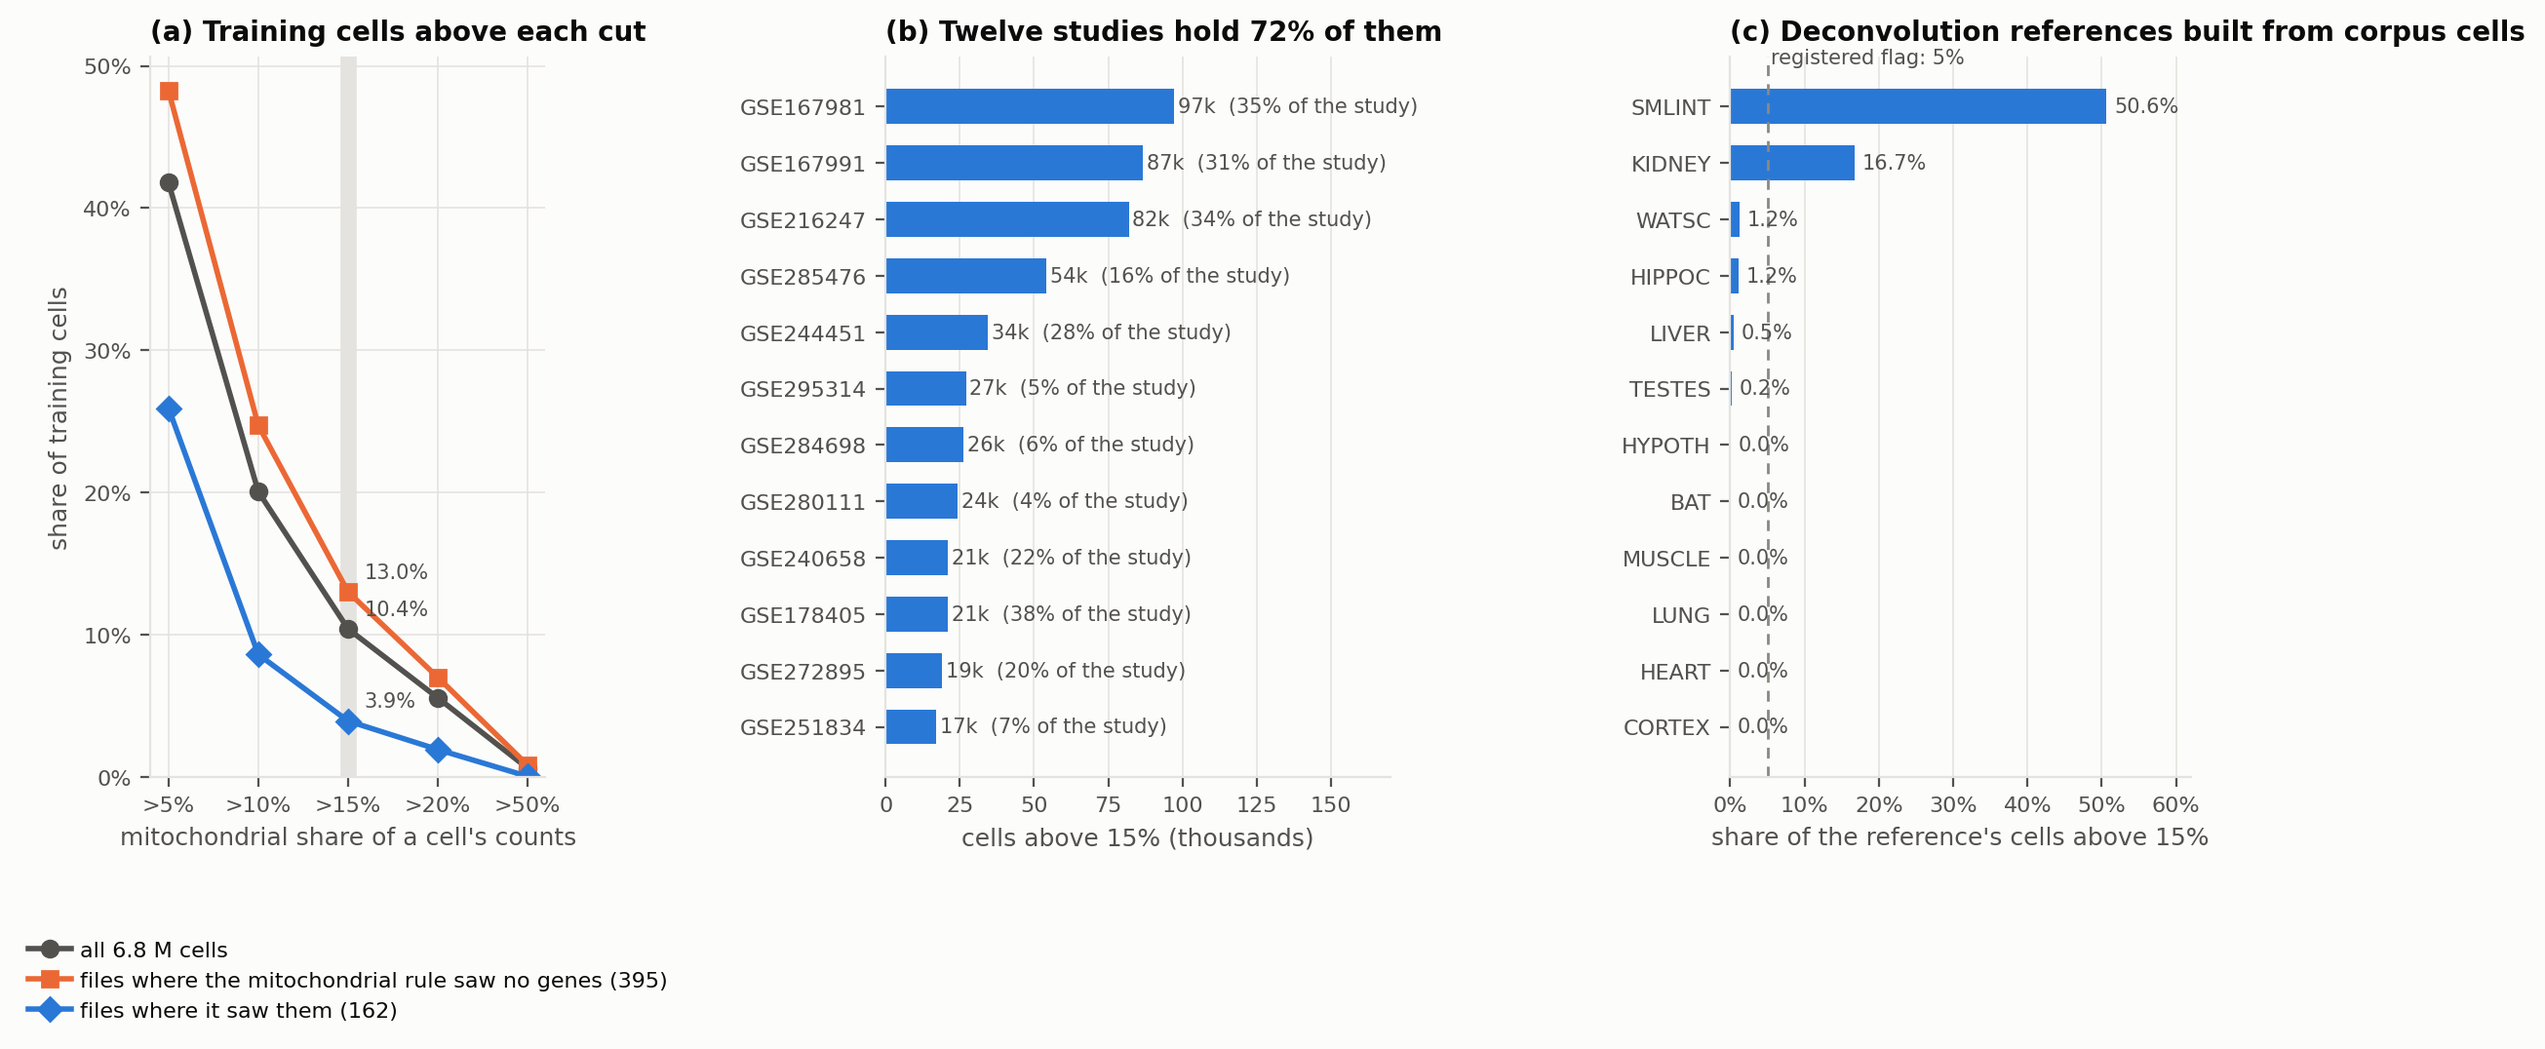
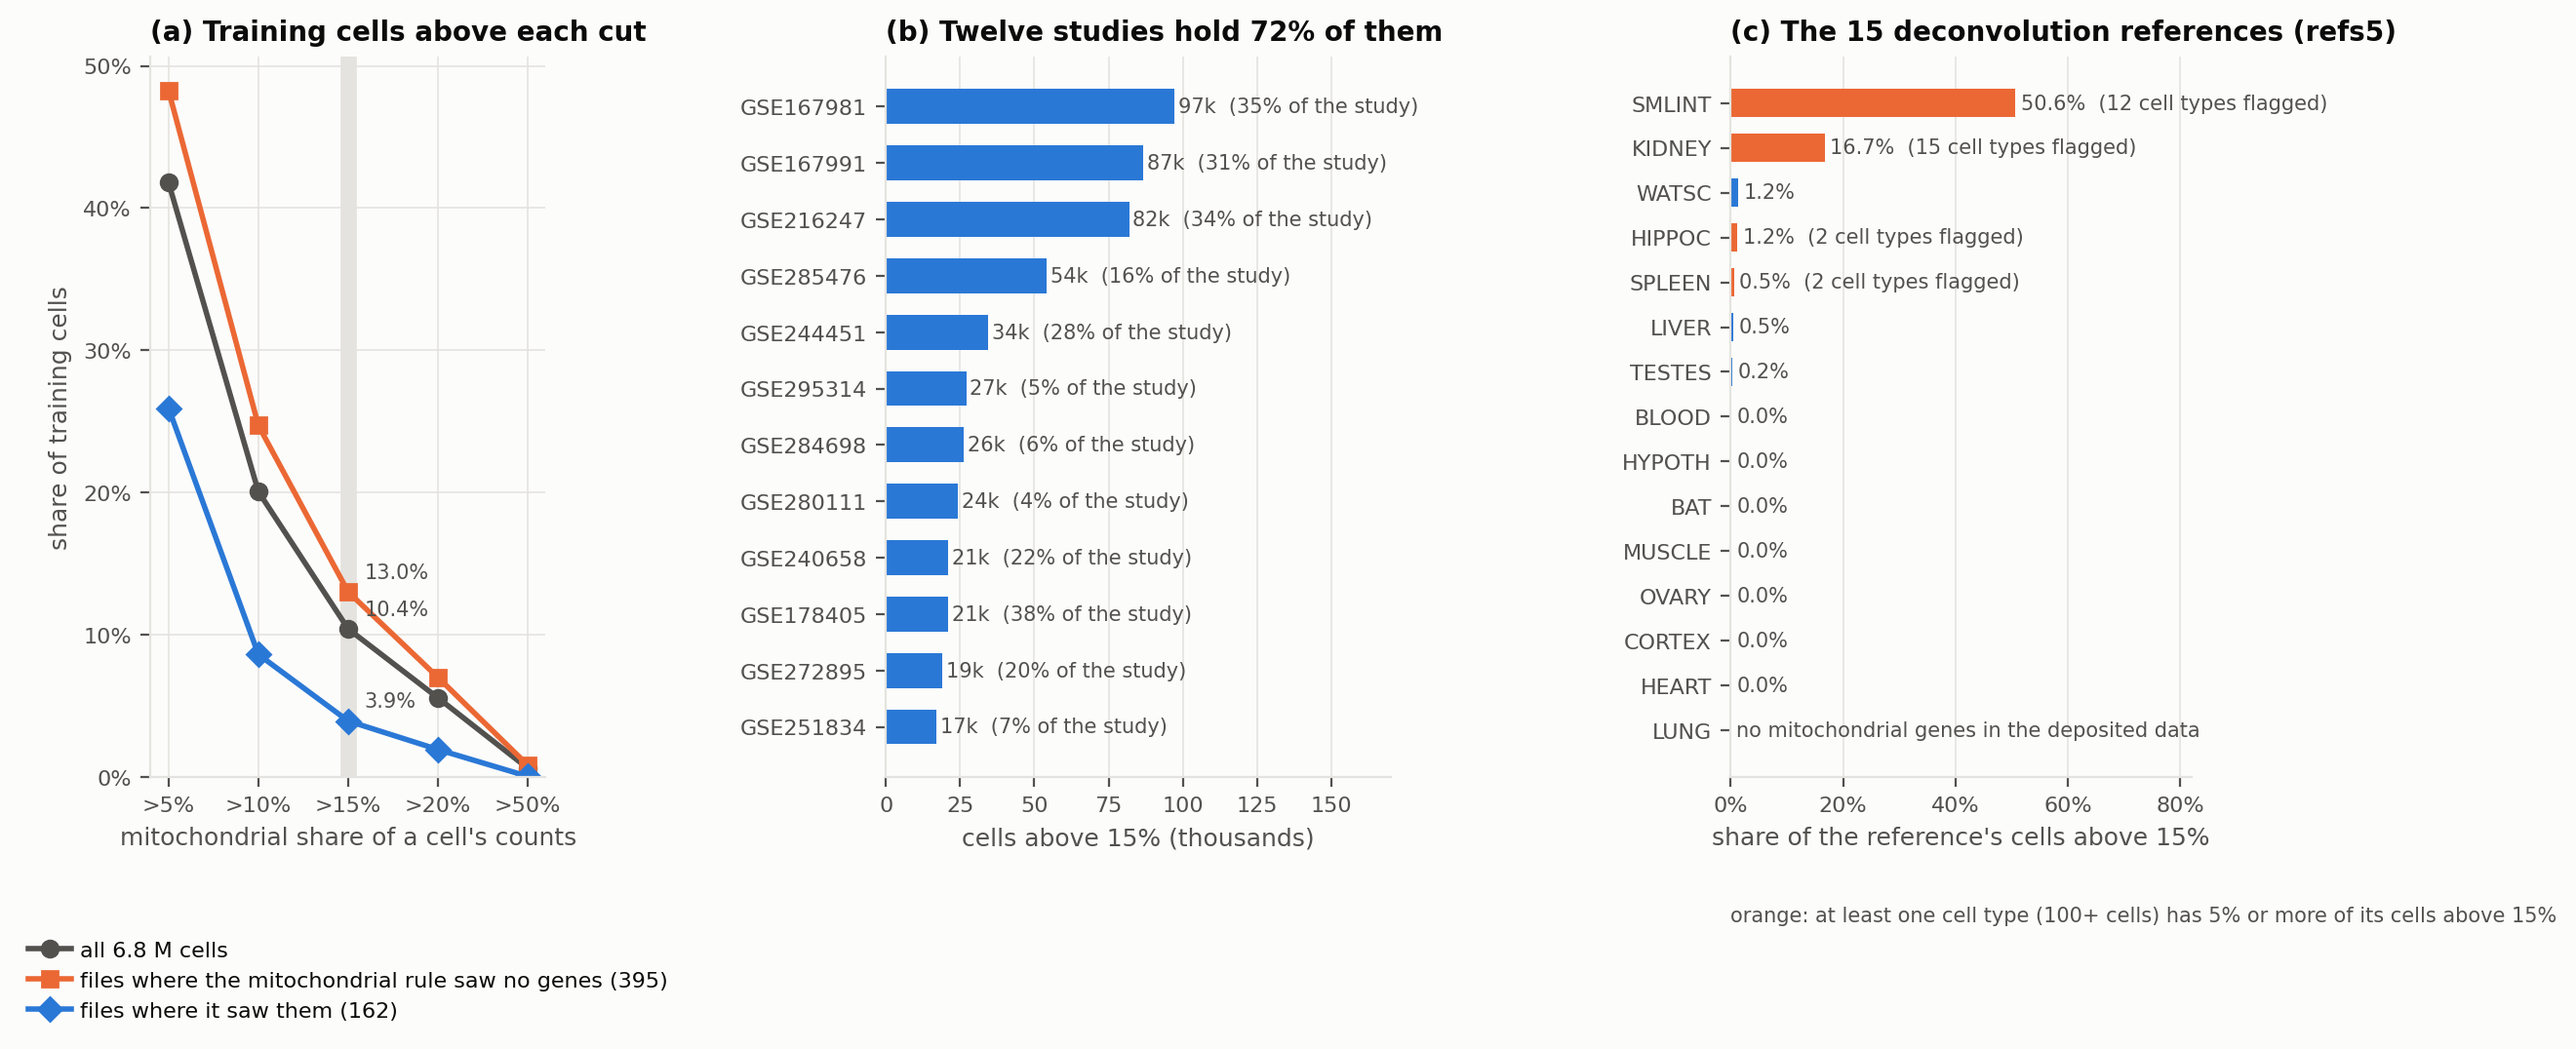
Step 5 M1: all 15 refs5 references measured from their own matrices; LUNG is not measurable (no mitochondrial counts in the deposited data), SPLEEN has two flagged cell types, BLOOD and OVARY are clean

diff --git a/analysis/audit_remediation/make_step5_figures.py b/analysis/audit_remediation/make_step5_figures.py
@@ -46,20 +46,26 @@ b.set_yticks(yy); b.set_yticklabels(top.study); b.set_xlim(0, top.n_above_15.max
 b.set_xlabel("cells above 15% (thousands)"); b.grid(axis="y", visible=False)
 b.set_title(f"(b) Twelve studies hold {top.n_above_15.sum() / o['cells_above_15']:.0%} of them")
 
-g = r.groupby("reference").apply(lambda d: pd.Series({
-    "matched": d.n_matched_to_a_qc_cell.sum(),
-    "share": (d.share_above_15 * d.n_matched_to_a_qc_cell).sum() / max(d.n_matched_to_a_qc_cell.sum(), 1)}), include_groups=False)
-g = g[g.matched > 0].sort_values("share")
+# panel (c): every refs5 reference, read from its own count matrix (measure_mito_reference_direct.py). A reference
+# whose matrix holds no mitochondrial gene cannot be measured and is drawn as such, not as zero.
+dr = pd.read_csv(REC / "mito_by_reference_refs5_direct.tsv", sep="\t")
+g = dr.groupby("reference").apply(lambda d: pd.Series({
+    "share": (d.share_above_15 * d.n_cells).sum() / d.n_cells.sum(), "n_mt": d.n_mt_genes_in_matrix.iloc[0],
+    "flagged": int(d.flag_registered_rule.sum())}), include_groups=False)
+g["share"] = g.share.where(g.n_mt > 0)
+g = pd.concat([g[g.share.isna()], g[g.share.notna()].sort_values("share")])
 yy = np.arange(len(g))
-c.barh(yy, g.share, color=fs.BLUE, height=0.62)
-for y_, v in zip(yy, g.share):
-    c.text(v + 0.01, y_, f"{v:.1%}", va="center", fontsize=7.5, color=fs.INK2)
-c.axvline(0.05, color=fs.NEUTRAL, lw=1, ls=(0, (4, 3)))
-c.text(0.055, len(g) - 0.3, "registered flag: 5%", fontsize=7.5, color=fs.INK2, va="bottom")
-c.set_yticks(yy); c.set_yticklabels([n.split("_")[0] for n in g.index]); c.set_xlim(0, 0.62)
+c.barh(yy, g.share.fillna(0), color=[fs.ORANGE if k else fs.BLUE for k in g.flagged], height=0.62)
+for y_, v, k in zip(yy, g.share, g.flagged):
+    c.text((0 if np.isnan(v) else v) + 0.01, y_,
+           "no mitochondrial genes in the deposited data" if np.isnan(v) else f"{v:.1%}" + (f"  ({int(k)} cell types flagged)" if k else ""),
+           va="center", fontsize=7.5, color=fs.INK2)
+c.set_yticks(yy); c.set_yticklabels([n.split("_")[0] for n in g.index]); c.set_xlim(0, 0.82)
 c.xaxis.set_major_formatter(plt.FuncFormatter(lambda v, _: f"{v:.0%}"))
 c.set_xlabel("share of the reference's cells above 15%"); c.grid(axis="y", visible=False)
-c.set_title("(c) Deconvolution references built from corpus cells")
+c.set_title("(c) The 15 deconvolution references (refs5)")
+c.text(0.0, -0.2, "orange: at least one cell type (100+ cells) has 5% or more of its cells above 15%",
+       transform=c.transAxes, fontsize=7.5, color=fs.INK2)
 fs.save(fig, FIG / "step5_mito.png")
 
 # ------------------------------------------------- Figure 5.2: counts filed under another gene, by study and in the bulk

diff --git a/docs/audit/remediation/STEP5_RESULTS.md b/docs/audit/remediation/STEP5_RESULTS.md
@@ -6,7 +6,7 @@ against a reading rule written first (`STEP5_PREREG.md`), and each is disclosed 
 | | Finding | Result | Registered reading |
 |---|---|---|---|
 | M1 | No mitochondrial cut on training cells | 10.4% of the 6.8 million training cells are above 15% | **Material departure** (the rule's top band, above 5%) |
-| M1 | The same in the deconvolution references | SMLINT 50.6% and KIDNEY 16.7% of reference cells above 15%; every cell type of both is flagged | **To the expert review plan**; references not rebuilt in this pass |
+| M1 | The same in the deconvolution references | SMLINT 50.6% and KIDNEY 16.7% of reference cells above 15%; every cell type of both is flagged. HIPPOC and SPLEEN have two flagged types each. LUNG cannot be measured | **To the expert review plan**; references not rebuilt in this pass |
 | M2 | 79 single-cell series never entered the corpus | *(filled in when the held-out set is built)* | Used as the held-out set of Step 4 |
 | M3 | Gene IDs carried over from earlier annotations | 1.04% of counts in ID-keyed corpus files sit under another gene's token; 43 of 53 studies are above the 0.5% bound. In the bulk, 2.24% of counts | **Not negligible.** Studies and genes listed; four reference studies above the bound go to the review plan |
 | M4 | Genes that cannot be tokenized | *(filled in from the refs5 pseudo-cells)* | Reported per tissue; no threshold |
@@ -21,8 +21,9 @@ of counts on the 13 mitochondrial protein-coding genes, found by Ensembl ID
 
 *Figure 5.1. (a) Share of training cells above each cut, for all cells and for the files where the
 mitochondrial outlier rule did and did not see mitochondrial genes. (b) The twelve studies with the most
-cells above 15%. (c) Share of each reference's cells above 15%, for references built from corpus cells.
-Tables: `record/step5/mito_overall.tsv`, `mito_by_study.tsv`, `mito_by_file.tsv`, `mito_by_reference.tsv`.*
+cells above 15%. (c) Share of each refs5 reference's cells above 15%, read from the reference's own count
+matrix. Tables: `record/step5/mito_overall.tsv`, `mito_by_study.tsv`, `mito_by_file.tsv`,
+`mito_by_reference.tsv`, `mito_by_reference_refs5_direct.tsv`.*
 
 ### Training cells
 
@@ -41,6 +42,9 @@ Tables: `record/step5/mito_overall.tsv`, `mito_by_study.tsv`, `mito_by_file.tsv`
   of cells are above 15%; in the files where the rule saw the genes, 3.8%.
 - **It is concentrated.** Five studies hold half of the cells above 15% and twelve hold 72%. Thirty-seven of 81
   studies have more than 5% of their cells above 15%; thirteen have none.
+- **Twelve files cannot be measured.** They hold no mitochondrial counts at all (154,614 cells in six studies,
+  2.3% of the corpus), so their cells count as below every cut. The deposited matrices had the genes removed.
+  10.4% is therefore a floor.
 
 | Study | Cells | Above 15% | Share of the study |
 |---|---|---|---|
@@ -68,7 +72,8 @@ are above 15%.
 | WATSC_GSE137869_Y | 11,984 | 1.2% | 9 | 0 |
 | LIVER_GSE220075 | 27,059 | 0.5% | 6 | 0 |
 | TESTES_OMIX767_lifted | 5,836 | 0.2% | 5 | 0 |
-| BAT, CORTEX, HEART, HYPOTH, LUNG, MUSCLE | | 0.0% | | 0 |
+| BAT, CORTEX, HEART, HYPOTH, MUSCLE | | 0.0% | | 0 |
+| LUNG_native_pooled | 44,158 | **not measurable**: its three source files hold no mitochondrial counts | | - |
 | BLOOD (composite), OVARY, SPLEEN | | not covered by this measurement | | see below |
 
 - **SMLINT.** Enterocytes, the dominant type (7,361 cells), have a median mitochondrial share of 20%; 72% are
@@ -89,7 +94,32 @@ so it could not cover the three references built outside those files, and it was
 before refs5. A second measurement reads each refs5 reference's own count matrix
 (`analysis/audit_remediation/measure_mito_reference_direct.py`).
 
-*(filled in when job 12377897 finishes: `record/step5/mito_by_reference_refs5_direct.tsv`)*
+| Reference | Cells | Above 15% | Flagged cell types |
+|---|---|---|---|
+| SMLINT_GSE272055 | 16,193 | 50.6% | 12 of 12 |
+| KIDNEY_GSE240658 | 24,479 | 16.7% | 15 of 15 |
+| WATSC_GSE137869_Y | 11,984 | 1.2% | 0 |
+| HIPPOC_GSE295314 | 23,892 | 1.2% | 2 (astrocytes 6.6%, endothelial cells 5.3%) |
+| **SPLEEN_GSE306764** | 13,013 | 0.5% | **2** (plasma cells 5.2% of 191; red-pulp macrophages 5.0% of 100) |
+| LIVER_GSE220075 | 27,059 | 0.5% | 0 |
+| TESTES_OMIX767_lifted | 5,836 | 0.2% | 0 |
+| **BLOOD_composite** | 67,147 | 0.04% | 0 |
+| **OVARY_GSE343214** | 9,104 | 0.0% | 0 |
+| HYPOTH_GSE248413_Y (re-annotated) | 7,992 | 0.01% | 0 |
+| BAT, CORTEX, HEART, MUSCLE | | 0.0% | 0 |
+| LUNG_native_pooled | 44,158 | not measurable (0 of 13 mitochondrial genes in the matrix) | - |
+
+- **The two measurements agree.** For the 138 cell types both cover, the share above 15% agrees to within
+  0.01 points in every reference except TESTES, whose lifted matrix holds fewer genes (spermatogonia 1.8%
+  against 0.6%).
+- **New from this measurement:** BLOOD and OVARY are clean. SPLEEN has two cell types at the rule's bound; they
+  join the review plan. The re-annotated HYPOTH reference is clean.
+- **Below the rule's 100-cell floor but worth a look:** 9 of the 42 TESTES Sertoli cells (21%) are above 15%.
+- **LUNG stays unmeasured.** Its source studies deposited matrices without mitochondrial genes, so nothing
+  can be said about the quality of those cells from this measure.
+
+Record: `record/step5/mito_by_reference_refs5_direct.tsv`, `mito_by_reference_refs5_direct_summary.tsv` (job
+12377897).
 
 ## M2. The series that never entered the corpus (finding 1.1)
 
